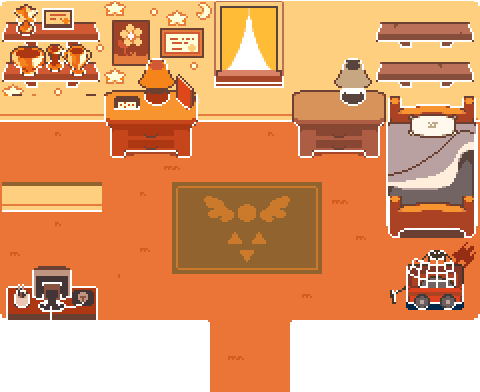
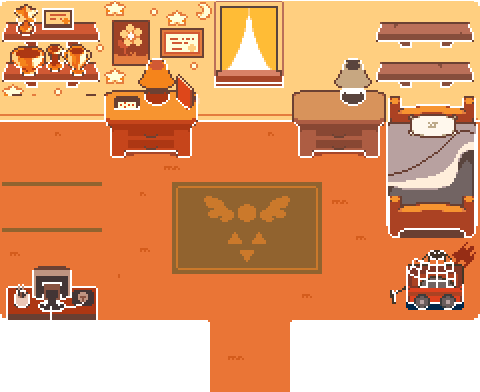
fix(room): 왼쪽 침대 자리 바닥 무늬 정리, 바닥 시작선 보정
Claude-Session: https://claude.ai/code/session_0173R7AzhtFaZ964wi63biMu

Changed region(s): [[0.0, 0.4592, 0.2188, 0.551], [0.0, 0.5816, 0.2188, 0.6122]]

diff --git a/src/data/maps.js b/src/data/maps.js
@@ -15,7 +15,7 @@ export const MAPS = {
     name: '우이동',
     image: 'assets/maps/room.png',
     // 바닥: 벽 아래(y 96)부터 y 322, 복도 x 210~290 y 322~392
-    walkable: [[4, 96, 472, 226], [210, 300, 80, 92]],
+    walkable: [[4, 126, 472, 196], [210, 300, 80, 92]],
     // 가구 (왼쪽 책상 / 오른쪽 책상 / 침대(형섭) / 컴퓨터 / 수레)
     solids: [[102, 96, 96, 62], [292, 96, 96, 62], [382, 96, 96, 140], [4, 258, 96, 66], [396, 256, 74, 66]],
     spawns: {
